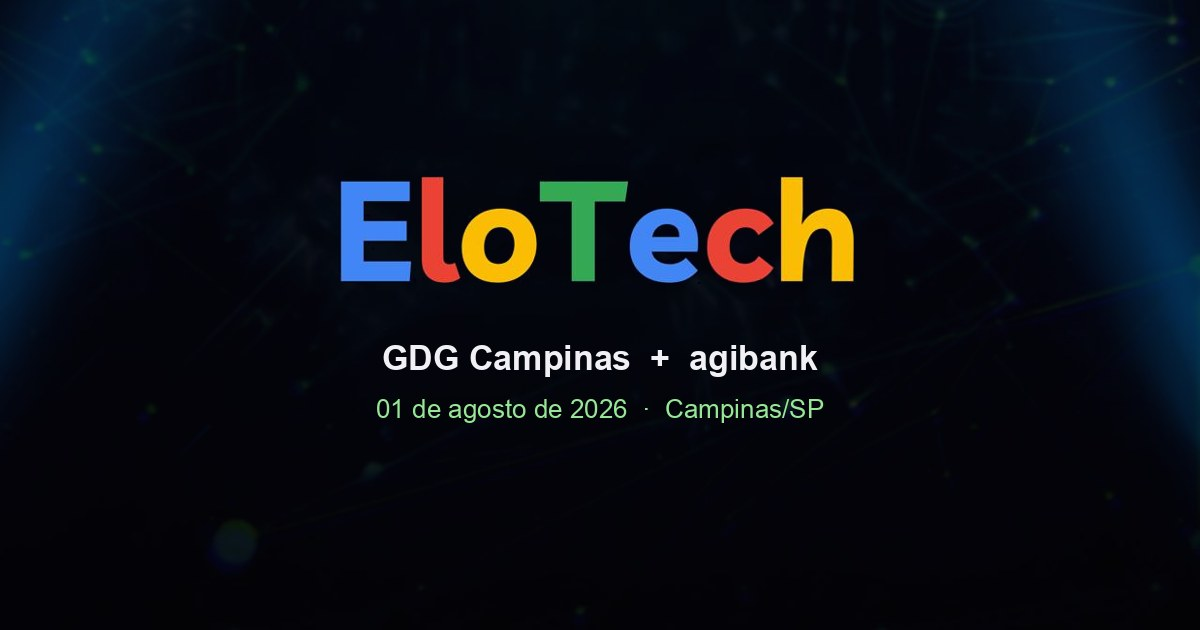
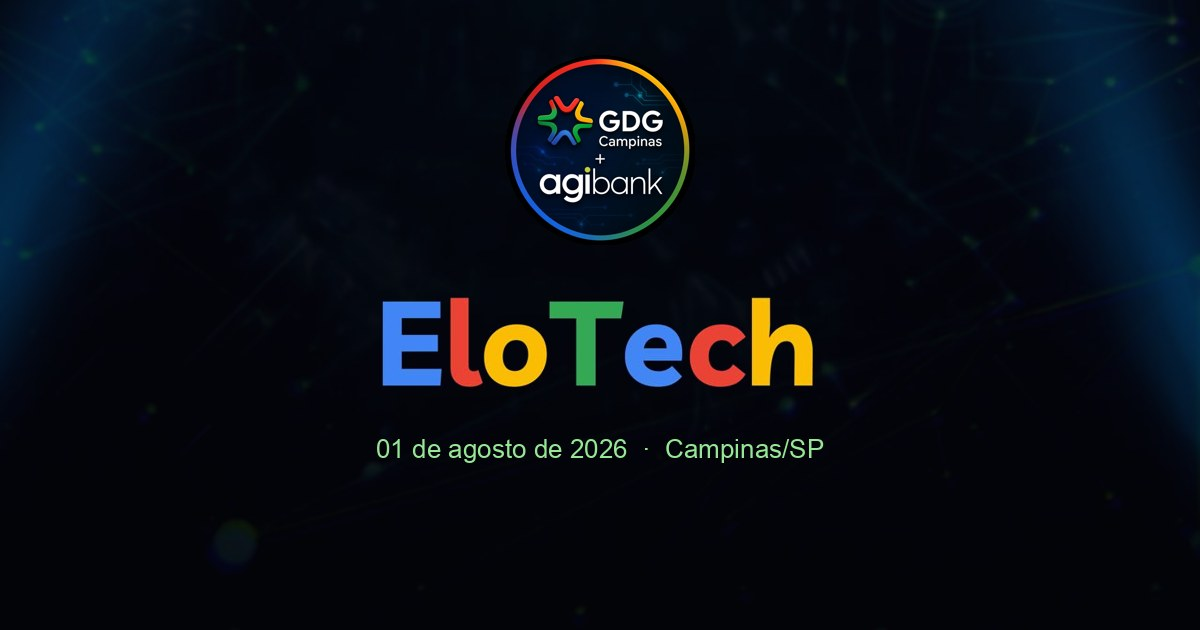
LinkedIn dos palestrantes, calendário, redes sociais e badge no OG image
- Nome do palestrante no modal vira link pro LinkedIn quando disponível
  (13 confirmados, dados vieram da planilha do CFP) — mesmo campo
  reveal já usado no resto, escondido igual antes da revelação.
- Botão "+ Calendário" ao lado de "Como chegar" — abre Google Calendar
  já preenchido com data/local/link da agenda.
- Rodapé ganha Instagram, LinkedIn e Linktree do GDG Campinas.
- Imagem de preview de compartilhamento (og-image.jpg) ganha o badge
  circular GDG+agibank acima da wordmark.

Changed region(s): [[0.2775, 0.0905, 0.7092, 0.6635], [0.3083, 0.6937, 0.5242, 0.754], [0.555, 0.6937, 0.6783, 0.7238]]

diff --git a/schedule.js b/schedule.js
@@ -29,6 +29,7 @@ const SCHEDULE = [
       ia: { speaker: "agibank", title: "" },
       webdata: {
         speaker: "Kevin Uehara",
+        linkedin: "https://www.linkedin.com/in/kevin-uehara/",
         title: "Exploring Google's AI ecosystem for the modern web",
         description: "O front-end entrou oficialmente na era AI-First. Uma visão prática das Web AI APIs no Chrome, do Gemini rodando direto no navegador e do Chrome WebMCP para integrar IA de forma real nas aplicações web.",
       },
@@ -37,16 +38,19 @@ const SCHEDULE = [
   { start: eventTime("09:40"), end: eventTime("10:15"), talks: {
       ia: {
         speaker: "Fabio Baldin",
+        linkedin: "https://br.linkedin.com/in/fabiobaldin",
         title: "Da ideia ao MVP antes do café acabar. Como a IA muda o que vem antes do código.",
         description: "Um workflow prático usando Google Docs, NotebookLM, Gemini e Lovable para transformar uma ideia em MVP funcional rapidamente — sem cair no overengineering antes mesmo de validar a hipótese.",
       },
       webdata: {
         speaker: "Vinicius Pivetta",
+        linkedin: "https://www.linkedin.com/in/viniciuspivetta",
         title: "Como a IA generativa está mudando o trabalho do engenheiro de dados",
         description: "O impacto da IA generativa no dia a dia de quem trabalha com dados: novas formas de interação, riscos à qualidade e quais habilidades continuam relevantes nesse novo cenário.",
       },
       mentoring: {
         speaker: "Helson Carlos dos Santos",
+        linkedin: "https://www.linkedin.com/in/helsonsant",
         title: "Como formar o novo desenvolvedor sênior em tempos de IA",
         description: "Como a IA está mudando a formação de desenvolvedores juniores — o que ela não substitui, e qual é o papel dos seniores na formação dessa nova geração.",
       },
@@ -54,16 +58,19 @@ const SCHEDULE = [
   { start: eventTime("10:20"), end: eventTime("10:55"), talks: {
       ia: {
         speaker: "Toshi Ossada",
+        linkedin: "https://www.linkedin.com/in/toshiossada/",
         title: "Vamos falar de Inteligência Artificial? Usando o poder da GenUI em seus Apps Flutter",
         description: "A interseção entre IA e desenvolvimento mobile: como usar GenUI (interface generativa) para criar interfaces dinâmicas em apps Flutter.",
       },
       webdata: {
         speaker: "Beatriz Rodrigues",
+        linkedin: "https://www.linkedin.com/in/beatrizmsrodrigues",
         title: "Data Power: como os dados moldam o mundo (e a sua carreira)",
         description: "Um guia prático sobre o impacto dos dados no mundo, as ferramentas mais exigidas pelo mercado hoje e como entrar e se diferenciar na área de dados.",
       },
       mentoring: {
         speaker: "Jessé Freitas",
+        linkedin: "https://www.linkedin.com/in/jesse--freitas/",
         title: "O próximo capítulo da Engenharia",
         description: "A ascensão do perfil \"builder\", a mentalidade de abundância e a orquestração de agentes de IA — como papéis técnicos e de produto estão se fundindo nesse novo capítulo da engenharia.",
       },
@@ -72,16 +79,19 @@ const SCHEDULE = [
   { start: eventTime("11:40"), end: eventTime("12:15"), talks: {
       ia: {
         speaker: "Guilherme H Silva",
+        linkedin: "https://www.linkedin.com/in/br4tech/",
         title: "Domando Multi-Agentes em Go com Phoenix",
         description: "Orquestração e observabilidade de agentes de IA em produção, com versionamento de prompts e gerenciamento de datasets na prática, usando Go e Phoenix.",
       },
       webdata: {
         speaker: "Ghabryel Henrique Ferreira e Almeida",
+        linkedin: "https://www.linkedin.com/in/ghabryelhenrique/",
         title: "Arquitetura Limpa no Frontend: escalando aplicações para o mundo real",
         description: "Clean Architecture e princípios SOLID aplicados ao frontend: separação de responsabilidades para construir código mais resiliente, escalável e testável.",
       },
       mentoring: {
         speaker: "Marco Ollivier",
+        linkedin: "https://www.linkedin.com/in/marcopollivier",
         title: "Toda startup começa com gambiarra, e isso pode ser uma ótima decisão",
         description: "Nem toda boa arquitetura nasce elegante. Muitas começam conectando ferramentas, automatizando planilhas, usando soluções prontas e escrevendo apenas o código necessário para validar hipóteses.\n\nNesta palestra compartilho como nossa arquitetura evoluiu ao longo do crescimento da startup, passando por ferramentas no-code, integrações low-code, desenvolvimento próprio e, mais recentemente, aplicações de Inteligência Artificial.\n\nMais do que apresentar tecnologias, discutiremos os critérios que orientaram cada decisão e como evitar tanto o overengineering quanto a dependência excessiva de ferramentas de terceiros.",
       },
@@ -89,16 +99,19 @@ const SCHEDULE = [
   { start: eventTime("12:20"), end: eventTime("12:55"), talks: {
       ia: {
         speaker: "Leonardo Veri",
+        linkedin: "https://www.linkedin.com/in/leonardoveri",
         title: "Clareza: a verdadeira oportunidade da Inteligência Artificial",
         description: "A verdadeira vantagem competitiva da IA não está nos modelos, mas na clareza para identificar os problemas certos. Frameworks práticos para gerar valor real ao negócio através de IA.",
       },
       webdata: {
         speaker: "Larissa Azevedo",
+        linkedin: "https://www.linkedin.com/in/larissasazevedo/",
         title: "Front-end é o novo Full Stack? A evolução que transformou o papel do desenvolvedor",
         description: "Como o front-end evoluiu para um papel estratégico — performance, segurança, observabilidade, arquitetura, IA, cloud e integração de sistemas cada vez mais na mesma pessoa.",
       },
       mentoring: {
         speaker: "Alex Tavares Faiotto",
+        linkedin: "https://www.linkedin.com/in/alex-faiotto/",
         title: "Como pensar como um arquiteto de software",
         description: "Desenvolvendo pensamento arquitetural na prática: decisões técnicas em cenários reais, monolito vs microsserviços, escolhas tecnológicas, escalabilidade, resiliência, sistemas distribuídos e o alinhamento entre técnico e produto.",
       },

diff --git a/app.js b/app.js
@@ -60,6 +60,24 @@ function googleMapsUrls(address) {
   };
 }
 
+/** yyyymmddThhmmssZ — formato exigido pelo link de adicionar ao Google Calendar. */
+function toGCalStamp(date) {
+  return date.toISOString().replace(/[-:]/g, "").split(".")[0] + "Z";
+}
+
+function googleCalendarUrl(event, schedule) {
+  const start = schedule[0].start;
+  const end = schedule[schedule.length - 1].end;
+  const params = new URLSearchParams({
+    action: "TEMPLATE",
+    text: event.name,
+    dates: `${toGCalStamp(start)}/${toGCalStamp(end)}`,
+    location: `${event.venue}, ${event.address}`,
+    details: `Agenda ao vivo: ${location.href}`,
+  });
+  return `https://calendar.google.com/calendar/render?${params}`;
+}
+
 function renderHeaderMeta(event, schedule, mountEl) {
   const start = hourLabel(schedule[0].start, event.timezone);
   const end = hourLabel(schedule[schedule.length - 1].end, event.timezone);
@@ -73,14 +91,18 @@ function renderHeaderMeta(event, schedule, mountEl) {
     <a class="venue-link" href="${directions}" target="_blank" rel="noopener">${event.venue} · como chegar</a>`;
 }
 
-function renderVenue(event, mountEl) {
+function renderVenue(event, mountEl, schedule) {
   // mapa externo (endereço/entrada) pode; planta interna do prédio, não.
   const { directions, embed } = googleMapsUrls(event.address);
+  const gcal = googleCalendarUrl(event, schedule);
   mountEl.innerHTML = `
     <div class="venue-info">
       <div class="label">Local</div>
       <div class="addr">${event.venue}<br>${event.address}</div>
-      <a class="go" href="${directions}" target="_blank" rel="noopener">Como chegar</a>
+      <div class="venue-actions">
+        <a class="go" href="${directions}" target="_blank" rel="noopener">Como chegar</a>
+        <a class="go go-outline" href="${gcal}" target="_blank" rel="noopener">+ Calendário</a>
+      </div>
       <div class="venue-qr">
         <img src="qrcode.png" alt="QR code para esta agenda" width="96" height="96">
         <span>Aponte a câmera para abrir a agenda</span>
@@ -96,7 +118,7 @@ function initApp() {
   const reveal = resolveReveal();
 
   renderHeaderMeta(EVENT, SCHEDULE, document.getElementById("headerMeta"));
-  renderVenue(EVENT, document.getElementById("venue"));
+  renderVenue(EVENT, document.getElementById("venue"), SCHEDULE);
 
   const tabsEl = document.querySelector(".tabs");
   const agendaEl = document.getElementById("agenda");

diff --git a/styles.css b/styles.css
@@ -252,9 +252,13 @@ footer{max-width:1180px;margin:36px auto 0;padding:0 24px;display:flex;flex-dire
 .venue-info{flex:1 1 260px;display:flex;flex-direction:column;gap:10px}
 .venue-info .label{font:700 13px "Public Sans",sans-serif;color:oklch(88% 0.01 260)}
 .venue-info .addr{font:500 13px "Public Sans",sans-serif;color:var(--muted);line-height:1.6}
+.venue-actions{display:flex;flex-wrap:wrap;gap:8px}
 .venue-info .go{
-  align-self:flex-start;font:700 13px "Public Sans",sans-serif;color:oklch(12% 0.01 260);
+  font:700 13px "Public Sans",sans-serif;color:oklch(12% 0.01 260);
   background:var(--amber);border-radius:100px;padding:9px 18px;text-decoration:none;
+}
+.venue-info .go-outline{
+  color:var(--amber);background:transparent;border:1px solid color-mix(in oklch, var(--amber) 50%, transparent);
 }
 .venue-qr{
   align-self:flex-start;display:flex;align-items:center;gap:10px;
@@ -264,6 +268,10 @@ footer{max-width:1180px;margin:36px auto 0;padding:0 24px;display:flex;flex-dire
 .venue-qr span{font:600 11px "Public Sans",sans-serif;color:#333;line-height:1.3;max-width:120px}
 .venue-map{flex:1 1 260px;min-height:180px;border-radius:10px;overflow:hidden;border:1px solid var(--card-border)}
 .venue-map iframe{width:100%;height:100%;min-height:180px;border:0;filter:grayscale(1) invert(.92) brightness(.9)}
+
+.social-links{display:flex;justify-content:center;gap:18px;padding-top:4px}
+.social-links a{font:700 12.5px "Public Sans",sans-serif;color:var(--muted);text-decoration:underline;text-underline-offset:2px}
+.social-links a:hover{color:var(--text)}
 
 .credits{text-align:center;color:var(--muted-dim);font-size:.78rem;padding-bottom:14px}
 .credits a{text-decoration:underline}
@@ -309,6 +317,12 @@ footer{max-width:1180px;margin:36px auto 0;padding:0 24px;display:flex;flex-dire
   border-radius:100px;padding:5px 13px;
 }
 .detail-speaker{font:700 15px "Public Sans",sans-serif;color:oklch(88% 0.01 260)}
+a.detail-speaker{display:inline-flex;align-items:center;gap:7px;text-decoration:none}
+a.detail-speaker:hover{text-decoration:underline}
+a.detail-speaker .li-icon{
+  width:18px;height:18px;border-radius:4px;background:#0a66c2;color:#fff;
+  font:700 10px/18px "Public Sans",sans-serif;text-align:center;
+}
 
 @media(max-width:480px){
   .modal{padding:12px}

diff --git a/index.html b/index.html
@@ -24,7 +24,7 @@
 <link rel="preconnect" href="https://fonts.googleapis.com">
 <link rel="preconnect" href="https://fonts.gstatic.com" crossorigin>
 <link href="https://fonts.googleapis.com/css2?family=Manrope:wght@700;800&family=Public+Sans:wght@400;500;600;700&display=swap" rel="stylesheet">
-<link rel="stylesheet" href="styles.css?v=31">
+<link rel="stylesheet" href="styles.css?v=32">
 </head>
 <body>
 
@@ -60,6 +60,11 @@
 
 <footer>
   <div class="venue-card" id="venue"></div>
+  <div class="social-links">
+    <a href="https://www.instagram.com/gdgcampinas" target="_blank" rel="noopener">Instagram</a>
+    <a href="https://www.linkedin.com/company/gdg-campinas/" target="_blank" rel="noopener">LinkedIn</a>
+    <a href="https://linktr.ee/gdgcampinas" target="_blank" rel="noopener">Linktree</a>
+  </div>
   <div class="credits">
     EloTech — realizado pelo <a href="https://gdg.community.dev/gdg-campinas/" target="_blank" rel="noopener">GDG Campinas</a>, com a <a href="https://agibank.com.br" target="_blank" rel="noopener">agibank</a> como anfitriã.
     <span class="tag">#EloTech2026</span>
@@ -80,11 +85,11 @@
   de fallback com onerror — funciona em qualquer navegador, sem depender
   de carregamento dinâmico assíncrono.
 -->
-<script src="schedule.dev.js" onerror="this.onerror=null;document.write('\x3Cscript src=&quot;schedule.js?v=31&quot;\x3E\x3C/script\x3E')"></script>
-<script src="track-card.js?v=31"></script>
-<script src="talk-modal.js?v=31"></script>
-<script src="agenda.js?v=31"></script>
-<script src="live-status.js?v=31"></script>
-<script src="app.js?v=31"></script>
+<script src="schedule.dev.js" onerror="this.onerror=null;document.write('\x3Cscript src=&quot;schedule.js?v=32&quot;\x3E\x3C/script\x3E')"></script>
+<script src="track-card.js?v=32"></script>
+<script src="talk-modal.js?v=32"></script>
+<script src="agenda.js?v=32"></script>
+<script src="live-status.js?v=32"></script>
+<script src="app.js?v=32"></script>
 </body>
 </html>

diff --git a/track-card.js b/track-card.js
@@ -46,11 +46,16 @@ function talkDetailMarkup(track, data, { reveal = true, timeRange = "", room = "
   const title = reveal ? data.title : "Palestra a confirmar";
   const description = reveal && data.description ? data.description : "";
   const roomLabel = reveal ? room : "";
+  const linkedin = reveal ? data.linkedin : "";
 
   const metaItems = [
     timeRange && `<span>${timeRange}</span>`,
     roomLabel && `<span class="room-tag">${roomLabel}</span>`,
   ].filter(Boolean).join("");
+
+  const speakerLine = linkedin
+    ? `<a class="detail-speaker" href="${linkedin}" target="_blank" rel="noopener">${speaker} <span class="li-icon">in</span></a>`
+    : `<div class="detail-speaker">${speaker}</div>`;
 
   return `
     <div class="detail" data-track="${track.id}">
@@ -58,7 +63,7 @@ function talkDetailMarkup(track, data, { reveal = true, timeRange = "", room = "
       <h3 class="detail-title">${title}</h3>
       ${description ? `<p class="detail-desc">${description}</p>` : ""}
       ${metaItems ? `<div class="detail-meta">${metaItems}</div>` : ""}
-      <div class="detail-speaker">${speaker}</div>
+      ${speakerLine}
     </div>`;
 }
 
